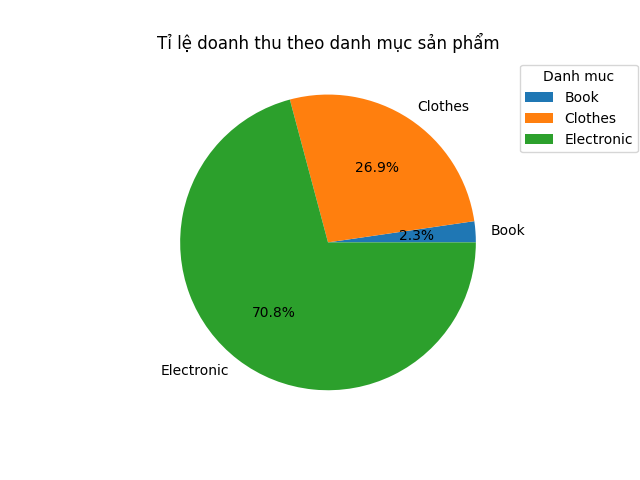
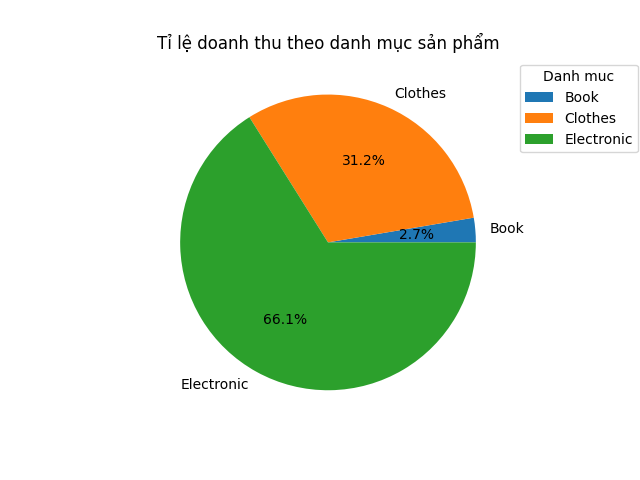
update reports

diff --git a/templates/adminpages/test.html b/templates/adminpages/test.html
@@ -10,12 +10,16 @@
         <div style =  "margin: 30px">
         <form class="form-inline" action="{% url 'ecomapp:reports' %}" method="GET">
                 <button class="btn my-2 my-sm-0" type="submit" style="background-color: #cce6ff">Show</button>
-                <input name="keyword1" class="form-control mr-sm-2" type="number" placeholder="Start Month"
+                {% comment %} <input name="keyword1" class="form-control mr-sm-2" type="number" placeholder="Start Month"
                 aria-label="Start Month" value ={{startmonth}}  required>
                   <input name="keyword2" class="form-control mr-sm-2" type="number" placeholder="End Month"
                 aria-label="End Month" value ={{endmonth}}  required>
                 <input name="keyword3" class="form-control mr-sm-2" type="number" placeholder="Year"
-                aria-label="Year"value ={{year}} required>
+                aria-label="Year"value ={{year}} required> {% endcomment %}
+                <input name="startdate" class="form-control mr-sm-2" type="month" placeholder="Start Date"
+                aria-label="Start Date" value ={{startdate}}  required>
+                <input name="enddate" class="form-control mr-sm-2" type="month" placeholder="End Date"
+                aria-label="End Date" value ={{enddate}}  required>
         </form> 
         </div>
         <div>
@@ -23,18 +27,22 @@
             <img class="img-fluid" src="{% static 'doanhThuCategoryImg.png' %}" alt="Image">
         </div>
        
-    <a href="{% url 'ecomapp:download' monthyear %}" class="btn btn-info" role="button">Dowload report</a>
+        <a href="{% url 'ecomapp:download' monthyear %}" class="btn btn-info" role="button">Dowload report</a> 
 
         {% else %}
             <form class="form-inline" action="{% url 'ecomapp:reports' %}" method="GET">
                             <button class="btn my-2 my-sm-0" type="submit" style="background-color: #cce6ff">Show</button>
-                            <input name="keyword1" class="form-control mr-sm-2" type="number" placeholder="Start Month"
+                            {% comment %} <input name="keyword1" class="form-control mr-sm-2" type="number" placeholder="Start Month"
                                 aria-label="Start Month"   required>
                             <input name="keyword2" class="form-control mr-sm-2" type="number" placeholder="End Month"
                         aria-label="End Month" required>
                           <input name="keyword3" class="form-control mr-sm-2" type="number" placeholder="Year"
                         aria-label="Year" required>
-                        <br>
+                        <br> {% endcomment %}
+                        <input name="startdate" class="form-control mr-sm-2" type="month" placeholder="Start Date"
+                        aria-label="Start Date"   required>
+                        <input name="enddate" class="form-control mr-sm-2" type="month" placeholder="End Date"
+                        aria-label="End Date"  required>
             </form>
             <div style = "margin: 40px; color: blue">
             <p> Please enter appropriate value </p>

diff --git a/ecomapp/views.py b/ecomapp/views.py
@@ -1,6 +1,8 @@
 from cgitb import reset
 import email
 from pickle import GET
+from tkinter import N
+from tracemalloc import start
 # from turtle import position
 from unicodedata import name
 from unittest import mock
@@ -30,6 +32,11 @@ from docxtpl import DocxTemplate, InlineImage
 import os
 from django.db import connection
 from docx.shared import Mm
+
+import openpyxl
+from openpyxl.styles import Alignment
+from openpyxl.styles import Alignment, Border, Side
+
 
 #----------------CUSTOMER--------------------#
 
@@ -1390,71 +1397,118 @@ class Reports(AdminRequiredMixin, TemplateView):
             cursor.execute(query)
             row = cursor.fetchall()
         return row
-    def generate_template(self, startmonth, endmonth, year):
+    def generate_template(self, startdate, enddate):
         base_dir = os.path.dirname(os.path.dirname(os.path.abspath(__file__)))
         filename = "media/docx_template/BaoCaoDoanhThu.docx"
         filepath = os.path.join(base_dir, filename)
         # create a document object
         doc = DocxTemplate(filepath)
 
-        smonth1 = startmonth
-        emonth1 = endmonth
-
-        startmonth = str(startmonth)
-        endmonth = str(endmonth)
-        year = str(year)
-
-        if len(startmonth)==1:
-            startmonth = "0"+startmonth
-        if len(endmonth)==1:
-            endmonth = "0"+endmonth
+        syear ,smonth= startdate.split('-')
+        eyear, emonth  = enddate.split('-')
         # create context to pass data to template
+        # query_tong_doanh_thu = f"select sum((i.price)*oi.count) as revenue\
+        #                         from [order] o \
+        #                         join [orderitem] oi on o.id = oi.id\
+        #                         join [item] i on oi.ItemID = i.id\
+        #                         where (strftime('%m', o.Time) >= \"{smonth}\" and strftime('%m', o.Time) <= \"{emonth}\" and strftime('%Y', o.Time) = \"{syear}\"and strftime('%Y', o.Time) = \"{eyear}\" ) or ( strftime('%Y', o.Time) >= \"{syear}\" and strftime('%Y', o.Time) <= \"{eyear}\")"
+        # query_loi_nhuan = f"select  sum((i.price - im.price)*oi.count) as profit \
+        #                     from [order] o  \
+        #                     join [orderitem] oi on o.id = oi.id \
+        #                     join [item] i on oi.ItemID = i.id \
+        #                     join [product] p on i.ProductID = p.id \
+        #                     join [importingrecord] im on im.productid = p.id\
+        #                      where (strftime('%m', o.Time) >= \"{smonth}\" and strftime('%m', o.Time) <= \"{emonth}\" and strftime('%Y', o.Time) = \"{syear}\"and strftime('%Y', o.Time) = \"{eyear}\" ) or ( strftime('%Y', o.Time) >= \"{syear}\" and strftime('%Y', o.Time) <= \"{eyear}\")"
+        # query_ti_le_loi_nhuan = f"select  (CAST((i.price - im.price) as REAL)/i.Price)*100 as profit \
+        #                     from [order] o \
+        #                     join [orderitem] oi on o.id = oi.id \
+        #                     join [item] i on oi.ItemID = i.id \
+        #                     join [product] p on i.ProductID = p.id \
+        #                     join [importingrecord] im on im.productid = p.id \
+        #                     where (strftime('%m', o.Time) >= \"{smonth}\" and strftime('%m', o.Time) <= \"{emonth}\" and strftime('%Y', o.Time) = \"{syear}\"and strftime('%Y', o.Time) = \"{eyear}\" ) or ( strftime('%Y', o.Time) >= \"{syear}\" and strftime('%Y', o.Time) <= \"{eyear}\") \
+        #                     group by strftime('%m', o.Time)"
+        # query_khach_hang_moi = f"select count(*) as new_customer \
+        #                     from [users] u  \
+        #                     join account a on a.user_id = u.id \
+        #                     where  strftime('%m', a.Date_created) >= \"{smonth}\" and strftime('%m', a.Date_created) <= \"{emonth}\" and strftime('%Y', a.Date_created) >= \"{syear}\" and strftime('%Y', a.Date_created) <= \"{eyear}\""                     
+        # query_doanh_thu_tb_khach = f"select  cast(sum(i.price*oi.count) as real)/(count(distinct o.CustomerID)) as profit \
+        #                         from [order] o \
+        #                         join [orderitem] oi on o.id = oi.id \
+        #                         join [item] i on oi.ItemID = i.id \
+        #                          where (strftime('%m', o.Time) >= \"{smonth}\" and strftime('%m', o.Time) <= \"{emonth}\" and strftime('%Y', o.Time) = \"{syear}\"and strftime('%Y', o.Time) = \"{eyear}\" ) or ( strftime('%Y', o.Time) >= \"{syear}\" and strftime('%Y', o.Time) <= \"{eyear}\")"
+        # query_doanh_thu_chi_tiet = f"select  p.name, i.price, sum(oi.count) as quantity, sum(i.price *oi.count) as revenue \
+        #                         from [order] o \
+        #                         join [orderitem] oi on o.id = oi.id \
+        #                         join [item] i on oi.ItemID = i.id \
+        #                         join [product] p on i.ProductID = p.id \
+        #                         join [importingrecord] im on im.productid = p.id \
+        #                          where (strftime('%m', o.Time) >= \"{smonth}\" and strftime('%m', o.Time) <= \"{emonth}\" and \"{syear}\" = \"{eyear}\"  ) or ( strftime('%Y', o.Time) >= \"{syear}\" and strftime('%Y', o.Time) <= \"{eyear}\") \
+        #                         group by itemid \
+        #                         order by revenue desc \
+        #                         limit 10"
+        # query_doanh_thu_theo_thang = f"select strftime('%m', o.Time) as month,strftime('%Y', o.Time) as year,\
+        #                         sum((i.price)*oi.count) as revenue \
+        #                         from [order] o  \
+        #                         join [orderitem] oi on o.id = oi.id \
+        #                         join [item] i on oi.ItemID = i.id \
+        #                         where (strftime('%m', o.Time) >= \"{smonth}\" and strftime('%m', o.Time) <= \"{emonth}\" and strftime('%Y', o.Time) = \"{syear}\"and strftime('%Y', o.Time) = \"{eyear}\" ) or ( strftime('%Y', o.Time) >= \"{syear}\" and strftime('%Y', o.Time) <= \"{eyear}\" and  \"{eyear}\" != \"{syear}\" ) \
+        #                         group by strftime('%m', o.Time), strftime('%Y', o.Time)"
+        # query_doanh_thu_theo_category = f"select c.name as category_name, \
+        #                         sum((i.price)*oi.count) as revenue \
+        #                         from [order] o  \
+        #                         join [orderitem] oi on o.id = oi.id \
+        #                         join [item] i on oi.ItemID = i.id \
+        #                         join [product] p on p.ID = i.ProductID \
+        #                         join [product_category] pc on p.ID = pc.ProductID \
+        #                         join [category] c on c.ID = pc.CategoryID  \
+        #                         where (strftime('%m', o.Time) >= \"{smonth}\" and strftime('%m', o.Time) <= \"{emonth}\" and strftime('%Y', o.Time) = \"{syear}\"and strftime('%Y', o.Time) = \"{eyear}\" ) or ( strftime('%Y', o.Time) >= \"{syear}\" and strftime('%Y', o.Time) <= \"{eyear}\") \
+        #                         group by c.name"
         query_tong_doanh_thu = f"select sum((i.price)*oi.count) as revenue\
                                 from [order] o \
                                 join [orderitem] oi on o.id = oi.id\
                                 join [item] i on oi.ItemID = i.id\
-                                where strftime('%m', o.Time) >= \"{startmonth}\" and strftime('%m', o.Time) <= \"{endmonth}\" and strftime('%Y', o.Time) = \"{year}\""
+                                where strftime('%Y-%m', o.Time) >= \"{startdate}\" and strftime('%Y-%m', o.Time) <= \"{enddate}\" "
         query_loi_nhuan = f"select  sum((i.price - im.price)*oi.count) as profit \
                             from [order] o  \
                             join [orderitem] oi on o.id = oi.id \
                             join [item] i on oi.ItemID = i.id \
                             join [product] p on i.ProductID = p.id \
                             join [importingrecord] im on im.productid = p.id\
-                            where strftime('%m', o.Time) >= \"{startmonth}\" and strftime('%m', o.Time) <= \"{endmonth}\" and strftime('%Y', o.Time) = \"{year}\""
+                            where strftime('%Y-%m', o.Time) >= \"{startdate}\" and strftime('%Y-%m', o.Time) <= \"{enddate}\""
         query_ti_le_loi_nhuan = f"select  (CAST((i.price - im.price) as REAL)/i.Price)*100 as profit \
                             from [order] o \
                             join [orderitem] oi on o.id = oi.id \
                             join [item] i on oi.ItemID = i.id \
                             join [product] p on i.ProductID = p.id \
                             join [importingrecord] im on im.productid = p.id \
-                            where strftime('%m', o.Time) >= \"{startmonth}\" and strftime('%m', o.Time) <= \"{endmonth}\" and strftime('%Y', o.Time) = \"{year}\" \
+                            where strftime('%Y-%m', o.Time) >= \"{startdate}\" and strftime('%Y-%m', o.Time) <= \"{enddate}\" \
                             group by strftime('%m', o.Time)"
         query_khach_hang_moi = f"select count(*) as new_customer \
                             from [users] u  \
                             join account a on a.user_id = u.id \
-                            where  strftime('%m', a.Date_created) >= \"{startmonth}\" and strftime('%m', a.Date_created) <= \"{endmonth}\" and strftime('%Y', a.Date_created) = \"{year}\""                     
+                            where  strftime('%Y-%m', a.Date_created) >= \"{startdate}\" and strftime('%Y-%m', a.Date_created) <= \"{enddate}\" "                     
         query_doanh_thu_tb_khach = f"select  cast(sum(i.price*oi.count) as real)/(count(distinct o.CustomerID)) as profit \
                                 from [order] o \
                                 join [orderitem] oi on o.id = oi.id \
                                 join [item] i on oi.ItemID = i.id \
-                                where strftime('%m', o.Time) >= \"{startmonth}\" and strftime('%m', o.Time) <= \"{endmonth}\" and strftime('%Y', o.Time) = \"{year}\""
+                                 where strftime('%Y-%m', o.Time) >= \"{startdate}\" and strftime('%Y-%m', o.Time) <= \"{enddate}\""
         query_doanh_thu_chi_tiet = f"select  p.name, i.price, sum(oi.count) as quantity, sum(i.price *oi.count) as revenue \
                                 from [order] o \
                                 join [orderitem] oi on o.id = oi.id \
                                 join [item] i on oi.ItemID = i.id \
                                 join [product] p on i.ProductID = p.id \
                                 join [importingrecord] im on im.productid = p.id \
-                                where strftime('%m', o.Time) >= \"{startmonth}\" and strftime('%m', o.Time) <= \"{endmonth}\" and strftime('%Y', o.Time) = \"{year}\" \
+                                where strftime('%Y-%m', o.Time) >= \"{startdate}\" and strftime('%Y-%m', o.Time) <= \"{enddate}\" \
                                 group by itemid \
                                 order by revenue desc \
                                 limit 10"
-        query_doanh_thu_theo_thang = f"select strftime('%m', o.Time) as month, \
+        query_doanh_thu_theo_thang = f"select strftime('%m', o.Time) as month,strftime('%Y', o.Time) as year,\
                                 sum((i.price)*oi.count) as revenue \
                                 from [order] o  \
                                 join [orderitem] oi on o.id = oi.id \
                                 join [item] i on oi.ItemID = i.id \
-                                where strftime('%m', o.Time) >= \"{startmonth}\" and strftime('%m', o.Time) <= \"{endmonth}\" and strftime('%Y', o.Time) = \"{year}\" \
-                                group by strftime('%m', o.Time)"
+                                where strftime('%Y-%m', o.Time) >= \"{startdate}\" and strftime('%Y-%m', o.Time) <= \"{enddate}\" \
+                                group by strftime('%m', o.Time), strftime('%Y', o.Time)"
         query_doanh_thu_theo_category = f"select c.name as category_name, \
                                 sum((i.price)*oi.count) as revenue \
                                 from [order] o  \
@@ -1463,7 +1517,7 @@ class Reports(AdminRequiredMixin, TemplateView):
                                 join [product] p on p.ID = i.ProductID \
                                 join [product_category] pc on p.ID = pc.ProductID \
                                 join [category] c on c.ID = pc.CategoryID  \
-                                where strftime('%m', o.Time) >= \"{startmonth}\" and strftime('%m', o.Time) <= \"{endmonth}\" and strftime('%Y', o.Time) = \"{year}\" \
+                                where strftime('%Y-%m', o.Time) >= \"{startdate}\" and strftime('%Y-%m', o.Time) <= \"{enddate}\" \
                                 group by c.name"
         tong_doanh_thu = "{:,}".format(self.run_custome_sql(query_tong_doanh_thu)[0][0])
         loi_nhuan = "{:,}".format(self.run_custome_sql(query_loi_nhuan)[0][0])
@@ -1480,10 +1534,11 @@ class Reports(AdminRequiredMixin, TemplateView):
                                 "gia": "{:,}".format(listDoanhThu[k][1]), "soluong": "{:,}".format(listDoanhThu[k][2]),
                                   "doanhthu": "{:,}".format(listDoanhThu[k][3])})
         time =  ""
-        if smonth1 != emonth1:
-            time =  " từ tháng " +startmonth +" đến "+ endmonth + " năm " +year
+        if startdate != enddate:
+            time =  " từ " +smonth + "/"+syear + " đến "+ emonth +"/"+eyear
         else:
-            time = " trong tháng " + startmonth +  " năm " +year
+            time = " trong " +emonth +"/"+eyear
+      
 
         context = {
             # "startmonth": startmonth,
@@ -1500,12 +1555,12 @@ class Reports(AdminRequiredMixin, TemplateView):
         
         doanhThuTheoThang = []
         for k in range(len(listDoanhThuTheoThang)):
-            doanhThuTheoThang.append({"month": listDoanhThuTheoThang[k][0], "revenue": "{:,}".format(listDoanhThuTheoThang[k][1])})
+            doanhThuTheoThang.append({"month": listDoanhThuTheoThang[k][0] +"-"+listDoanhThuTheoThang[k][1] ,"revenue": "{:,}".format(listDoanhThuTheoThang[k][2])})
 
         doanhThuTheoCategory = []
         for k in range(len(listDoanhThuTheoCategory)):
             doanhThuTheoCategory.append({"category_name": listDoanhThuTheoCategory[k][0], "revenue": "{:,}".format(listDoanhThuTheoCategory[k][1])})
-        
+        # print(doanhThuTheoThang)
         # Graph doanh thu theo category
         fig, ax = plt.subplots()
         # Plot the data on the axes
@@ -1524,8 +1579,8 @@ class Reports(AdminRequiredMixin, TemplateView):
         # Graph doanh thu theo thang
         fig, ax = plt.subplots(figsize=(10, 7))
         # Plot the data on the axes
-        x1 = [x[0] for x in listDoanhThuTheoThang]
-        y1 = [x[1] for x in listDoanhThuTheoThang]
+        x1 = [x[0]+"-"+x[1] for x in listDoanhThuTheoThang]
+        y1 = [x[2] for x in listDoanhThuTheoThang]
         ax.plot(x1, y1)
 
         # Add labels and title
@@ -1550,15 +1605,15 @@ class Reports(AdminRequiredMixin, TemplateView):
         doc.render(context)
 
         # save the document object as a word file
-        reportWordPath = 'reports/documents/report_month_{0}-{1}-{2}.docx'.format(startmonth,endmonth, year)
+        reportWordPath = 'reports/documents/report_month_{0}_{1}.docx'.format(startdate, enddate)
         output_path = os.path.join(base_dir, reportWordPath)
         doc.save(output_path)
         return output_path
     
     def download_file(self, **kwargs):
         a =kwargs['monthyear']
-        report = Reports()
-        filepath = report.generate_template(a.split('-')[0],a.split('-')[1], a.split('-')[2])
+        report = Reports()  
+        filepath = report.generate_template(a.split('_')[0],a.split('_')[1] )
         if os.path.exists(filepath ):
             with open(filepath , 'rb') as fh:
                 response = HttpResponse(fh.read(), content_type='application/vnd.openxmlformats-officedocument.wordprocessingml.document')
@@ -1567,29 +1622,48 @@ class Reports(AdminRequiredMixin, TemplateView):
     
     def get_context_data(self, **kwargs):
         context = super().get_context_data(**kwargs)
-        startmonth = self.request.GET.get("keyword1")
-        endmonth = self.request.GET.get("keyword2")
-        year = self.request.GET.get("keyword3")
+        startdate = self.request.GET.get("startdate")
+        enddate= self.request.GET.get("enddate")
+       
+       
         monthyear = None
         error =  False
-        print(startmonth, endmonth,year )
-        if startmonth is not None and year is not None and endmonth is not None:
-            if int(startmonth) <= int(endmonth) and int(endmonth) <= 12 and int(startmonth)>=1 :
+       
+        # print(startdate, enddate)
+        # print(type(startdate))
+        if startdate is not None and enddate is not None:
+            # syear ,smonth= startdate.split('-')
+            # eyear, emonth  = enddate.split('-')
+            # print(smonth, syear)
+            # print(startdate < enddate )
+            if startdate<= enddate:
                 report = Reports()
-                try:
-                    file_path = report.generate_template(startmonth,endmonth, year)
-                except:
-                    error = True
-                monthyear = str(startmonth)+"-"+str(endmonth)+"-"+str(year)
-            else: 
+                # try:
+                file_path = report.generate_template(startdate, enddate)
+                monthyear = startdate + "_"+enddate
+                # except:
+                #     error = True
+            else:
                 error = True
+        else:
+             error = True
+        # if startmonth is not None and year is not None :
+        #     if int(startmonth) <= int(endmonth) and int(endmonth) <= 12 and int(startmonth)>=1 :
+        #         report = Reports()
+        #         try:
+        #             file_path = report.generate_template(startmonth,endmonth, year)
+        #         except:
+        #             error = True
+        #         monthyear = str(startmonth)+"-"+str(endmonth)+"-"+str(year)
+        #     else: 
+        #         error = True
             
-        else: 
-            error = True
-        print(error)
+        # else: 
+        #     error = True
+        # print(error)
         context['monthyear'] = monthyear  
-        context['startmonth'] =  startmonth
-        context['endmonth'] =  endmonth
-        context['year'] = year
+        context['startdate'] =  startdate
+        context['enddate'] =  enddate
+        # context['year'] = year
         context['error'] =  error
         return context

diff --git a/ecomapp/urls.py b/ecomapp/urls.py
@@ -6,7 +6,7 @@ app_name = "ecomapp"
 urlpatterns = [
 
     # Client side pages
-    path("download_report_revenue/<slug:monthyear>", Reports.download_file, name="download"),
+     path("download_report_revenue/<slug:monthyear>", Reports.download_file, name="download"),
      path("reports", Reports.as_view(),name="reports"),
     path("", HomeView.as_view(), name="home"),
 #     path("about/", AboutView.as_view(), name="about"),
